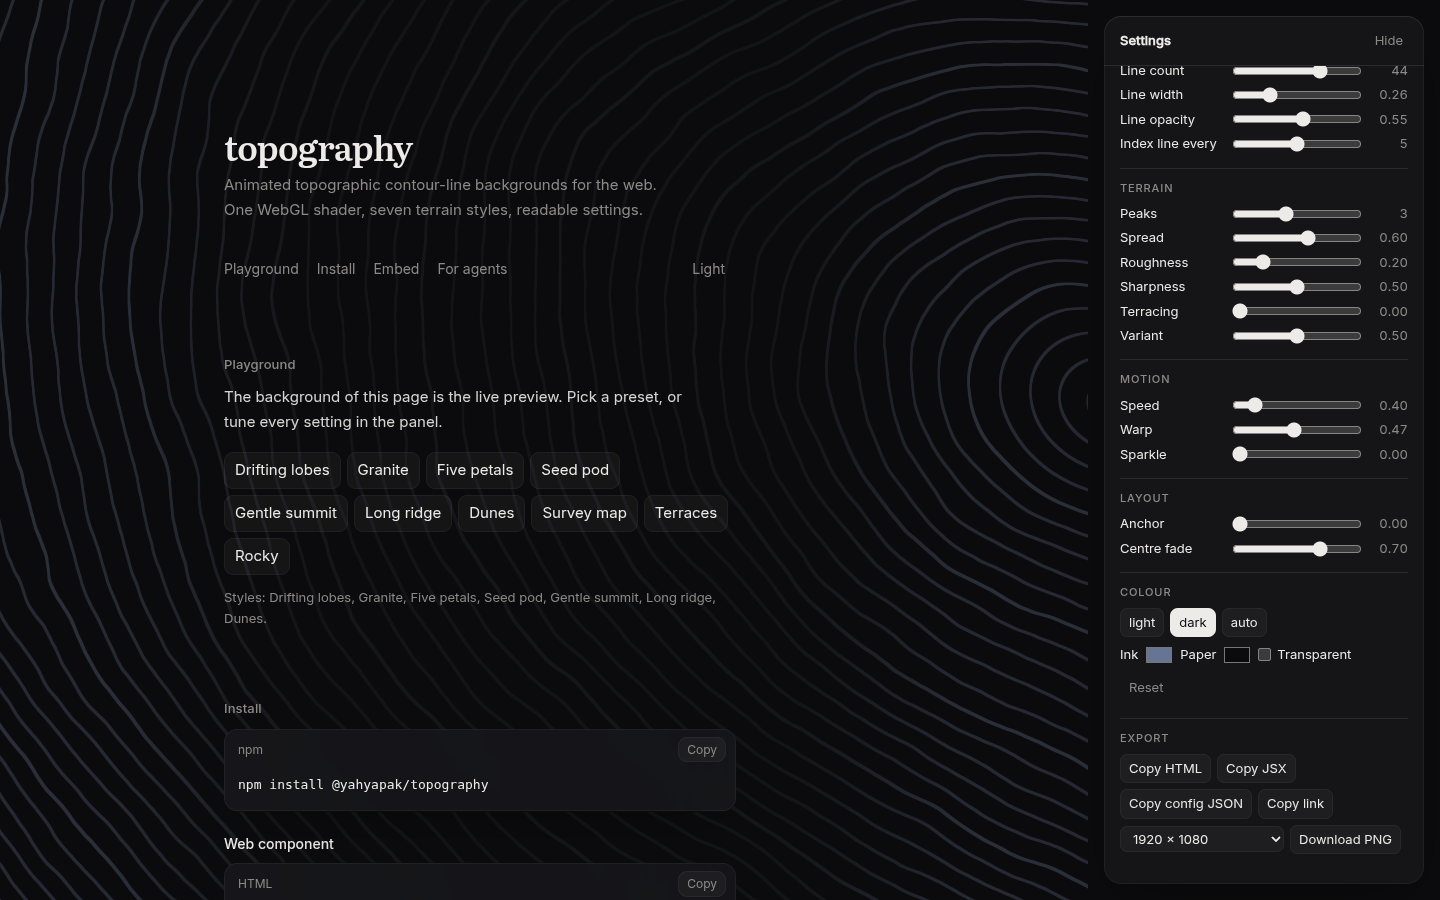
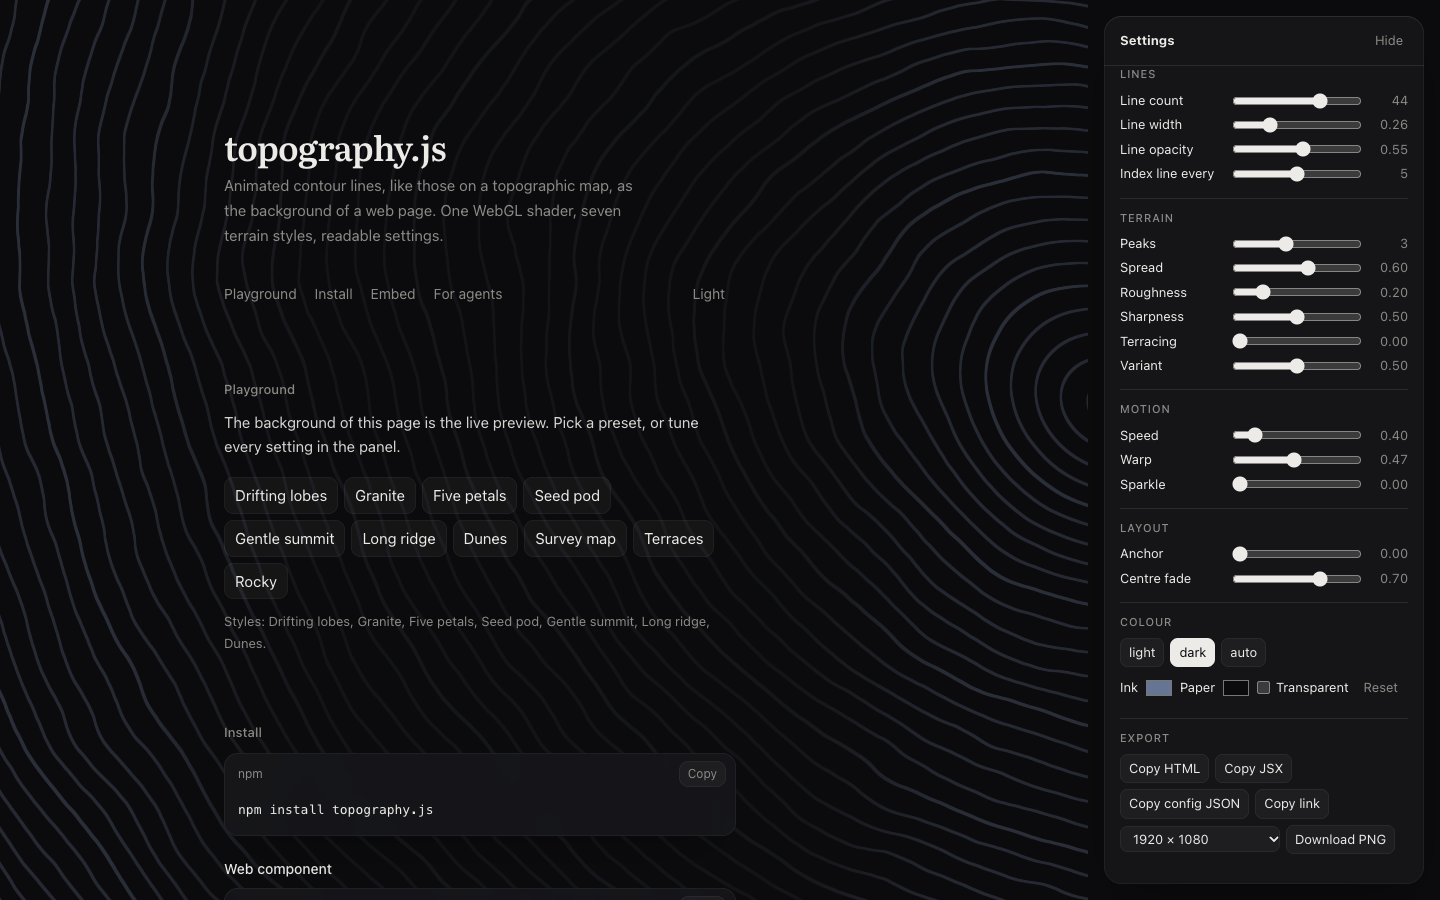
use the retaken playground screenshot from topography

diff --git a/src/data.js b/src/data.js
@@ -69,7 +69,7 @@ export const projects = [
     ] },
   { id: 'topography', name: 'topography.js', state: 4, repo: 'https://github.com/yahyabedirhan/topography',
     viewsFirst: true, // screenshot, then styles, then the diagram
-    // assets from yahyabedirhan/topography at d6c0d98 (logo at 997bc7a, diagram at d30e231)
+    // assets from yahyabedirhan/topography at d6c0d98 (logo at 997bc7a, diagram at d30e231, screenshot from PR #13 at 9f603a0)
     icon: '/topography/topography.png', iconAlt: "topography's logo: three contour rings on paper folded along one diagonal crease, on a graphite tile",
     line: 'Animated contour-line web backgrounds',
     about: "topography.js is a JavaScript package that draws animated contour lines, like those on a topographic map, as the background of a web page. One WebGL shader draws seven hand-made terrain styles, with a framework-free core, a `<topography-bg>` web component and a React component. It started from this site's contour explorations, and in the public playground people, and AI agents through WebMCP and llms.txt, set up a background and export it.",
